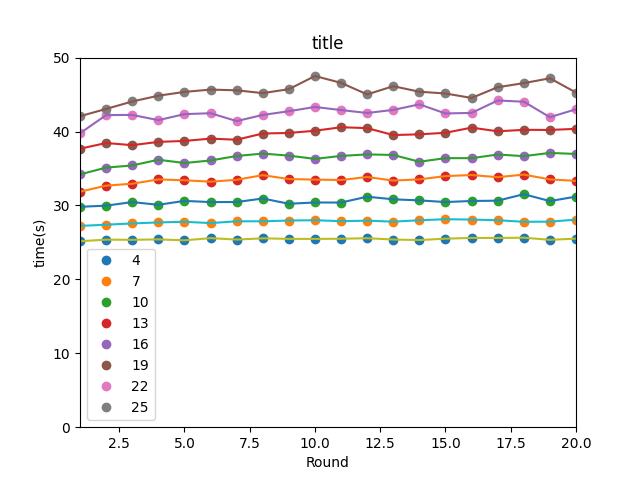
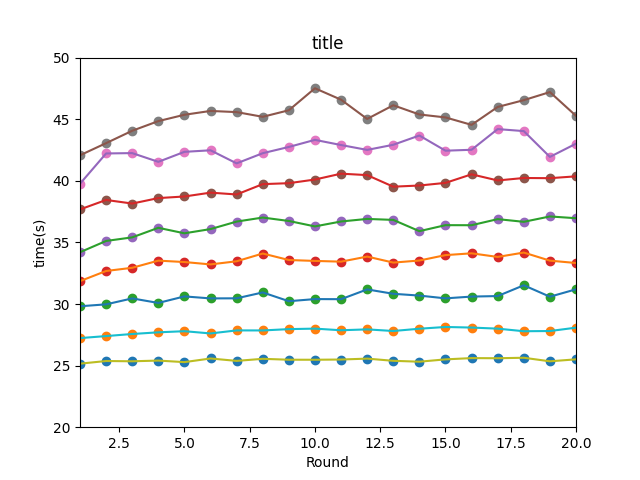
simplified

Changed region(s): [[0.0625, 0.1562, 0.9062, 0.875], [0.0625, 0.875, 0.125, 0.9062], [0.1562, 0.8438, 0.1875, 0.875]]

diff --git a/DataProcess/EntropyNew/plot.py b/DataProcess/EntropyNew/plot.py
@@ -19,7 +19,7 @@ data60 = np.loadtxt(open("60time.csv","rb"),delimiter=",")
 # data22 = data22[:-1]
 # data25 = data25[:-1]
 
-plt.figure(1)
+plt.figure(1,figsize=(3,3))
 plt.xlabel('Round')
 plt.ylabel('time(s)')
 # plt.xlim(1, 20)
@@ -37,8 +37,8 @@ plt.plot(xArray, data40)
 plt.plot(xArray, data50)
 plt.plot(xArray, data60)
 plt.title('title')
-plt.legend(('10','20','30','40','50','60'))
-plt.savefig("consensus.png")
+# plt.legend(('10','20','30','40','50','60'))
+plt.savefig("entropy.png")
 
 xArray = np.array([10, 20, 30, 40, 50, 60])
 data10Mean = np.mean(data10)
@@ -54,7 +54,7 @@ p1 = np.poly1d(z1)
 print(z1)
 print(p1)
 
-plt.figure(2)
+plt.figure(2,figsize=(3,3))
 plt.xlabel('Number of Entropy Nodes')
 plt.ylabel('Average Time(s)')
 # plt.xlim(0, 70)

diff --git a/DataProcess/ConsensusNew/plot.py b/DataProcess/ConsensusNew/plot.py
@@ -25,7 +25,7 @@ plt.figure(1)
 plt.xlabel('Round')
 plt.ylabel('time(s)')
 plt.xlim(1, 20)
-plt.ylim(0, 50)
+plt.ylim(20, 50)
 plt.plot(xArray, data4, "o")
 plt.plot(xArray, data7, "o")
 plt.plot(xArray, data10, "o")
@@ -43,7 +43,7 @@ plt.plot(xArray, data19)
 plt.plot(xArray, data22)
 plt.plot(xArray, data25)
 plt.title('title')
-plt.legend(('4','7','10','13','16','19','22','25'))
+# plt.legend(('4','7','10','13','16','19','22','25'))
 plt.savefig("consensus.png")
 
 xArray = np.array([1, 2, 3, 4, 5, 6, 7, 8])
@@ -69,4 +69,4 @@ plt.ylabel('Average Time(s)')
 plt.plot(xArray, dataMean, "o")
 plt.plot(xArray, dataMean)
 plt.title('title')
-plt.savefig("entropyAverage.png")
+plt.savefig("consensusAverage.png")
